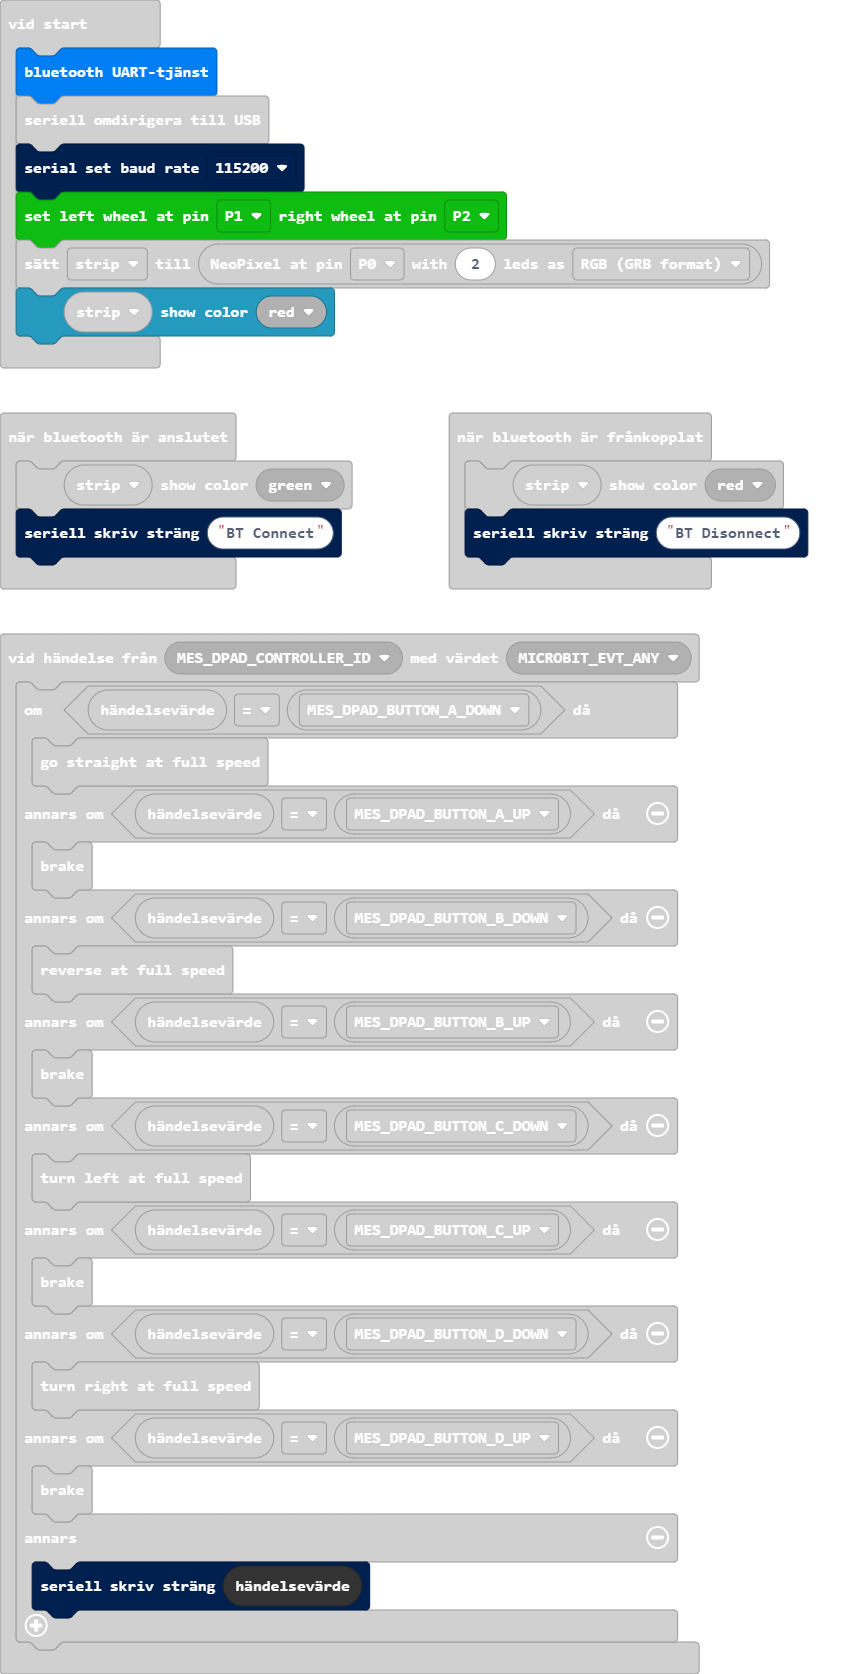
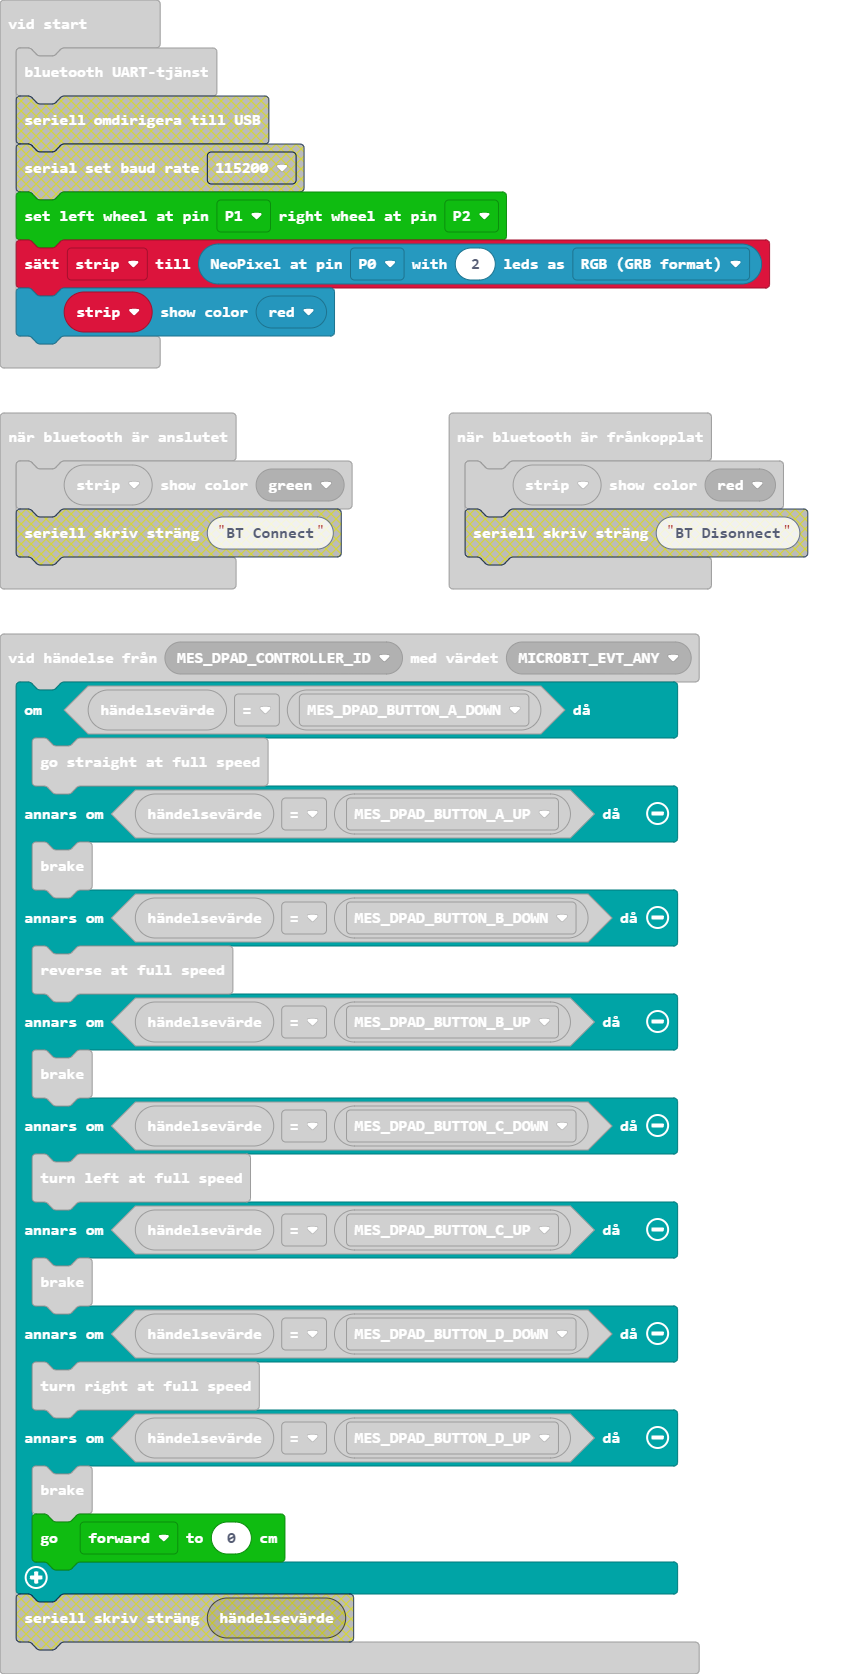
Uppdatera main.blocks, main.ts

diff --git a/main.ts b/main.ts
@@ -1,10 +1,8 @@
 bluetooth.onBluetoothConnected(function () {
     strip.showColor(neopixel.colors(NeoPixelColors.Green))
-    serial.writeString("BT Connect")
 })
 bluetooth.onBluetoothDisconnected(function () {
     strip.showColor(neopixel.colors(NeoPixelColors.Red))
-    serial.writeString("BT Disonnect")
 })
 control.onEvent(EventBusSource.MES_DPAD_CONTROLLER_ID, EventBusValue.MICROBIT_EVT_ANY, function () {
     if (control.eventValue() == EventBusValue.MES_DPAD_BUTTON_A_DOWN) {
@@ -23,14 +21,11 @@ control.onEvent(EventBusSource.MES_DPAD_CONTROLLER_ID, EventBusValue.MICROBIT_EV
         RingbitCar.turnright()
     } else if (control.eventValue() == EventBusValue.MES_DPAD_BUTTON_D_UP) {
         RingbitCar.brake()
-    } else {
-        serial.writeString("" + (control.eventValue()))
+        RingbitCar.running_distance(RingbitCar.Direction_run.forward, 0)
     }
 })
 let strip: neopixel.Strip = null
 bluetooth.startUartService()
-serial.redirectToUSB()
-serial.setBaudRate(BaudRate.BaudRate115200)
 RingbitCar.init_wheel(AnalogPin.P1, AnalogPin.P2)
 strip = neopixel.create(DigitalPin.P0, 2, NeoPixelMode.RGB)
 strip.showColor(neopixel.colors(NeoPixelColors.Red))
